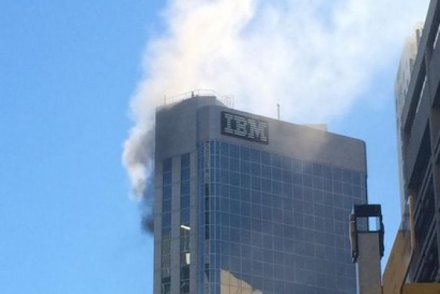
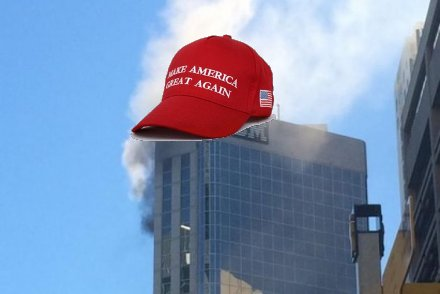
new hat

Changed region(s): [[0.2955, 0.1224, 0.6205, 0.4898]]

diff --git a/ibm/index.md b/ibm/index.md
@@ -7,6 +7,8 @@ title: ಠ_ಠ in Big Blue
 
 ![zLinux is going to be big this year][ibmfire]
 
+Congratulations to IBM on your new red hat.  it really matches your armband.
+
 In procurement they say "No one gets fired for buying IBM" but idk...
 
 [ibmfire]: ./ibm_fire.jpg
